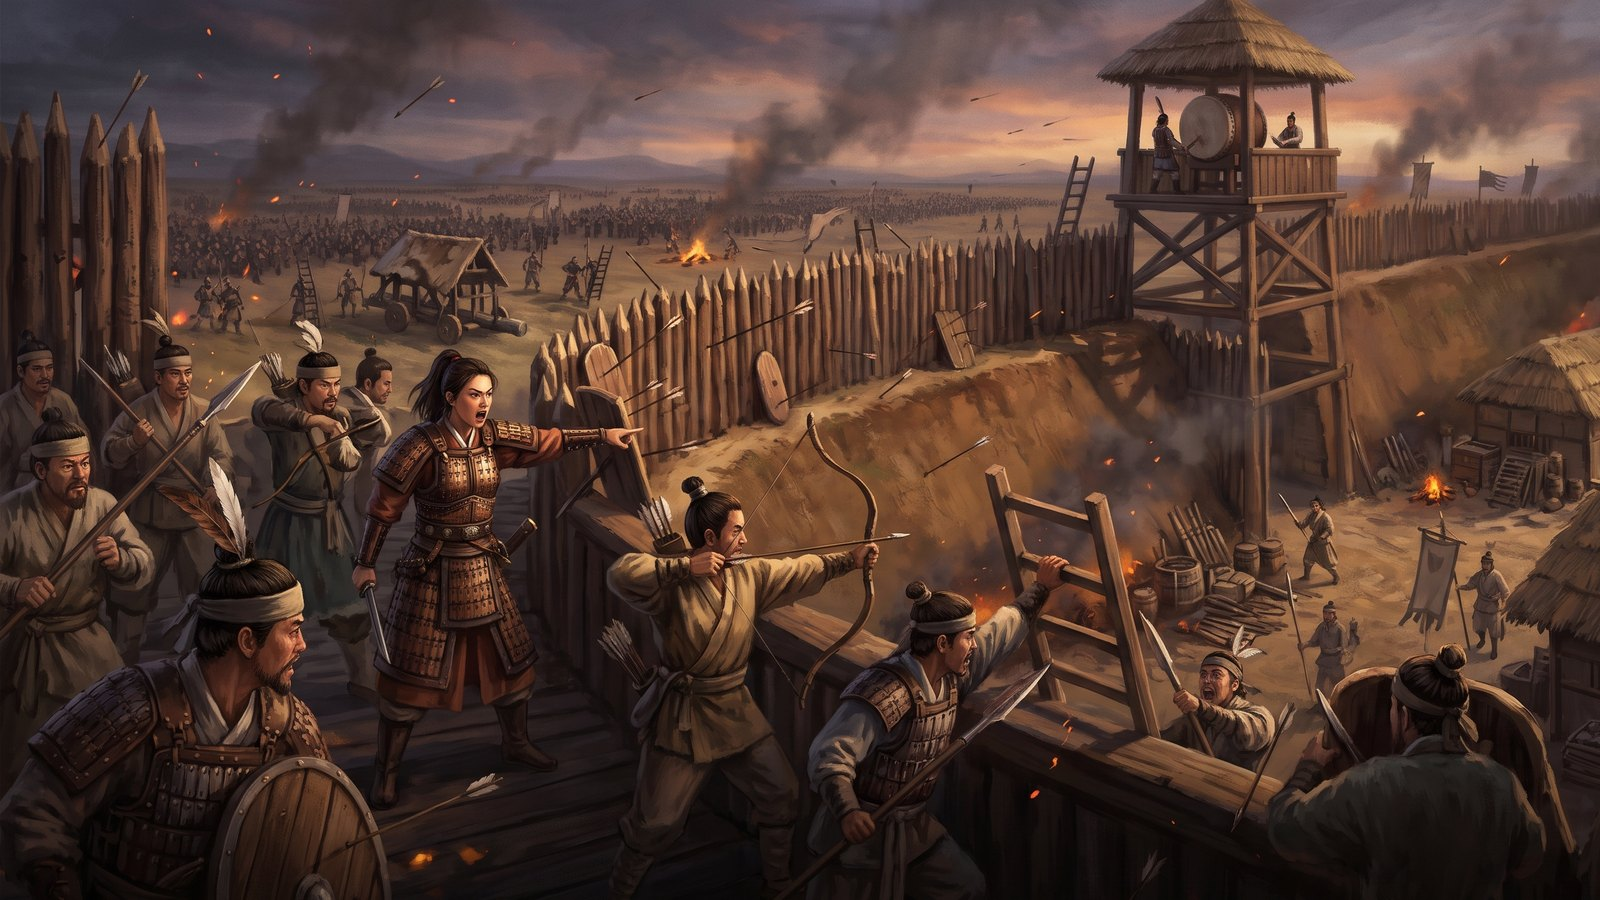
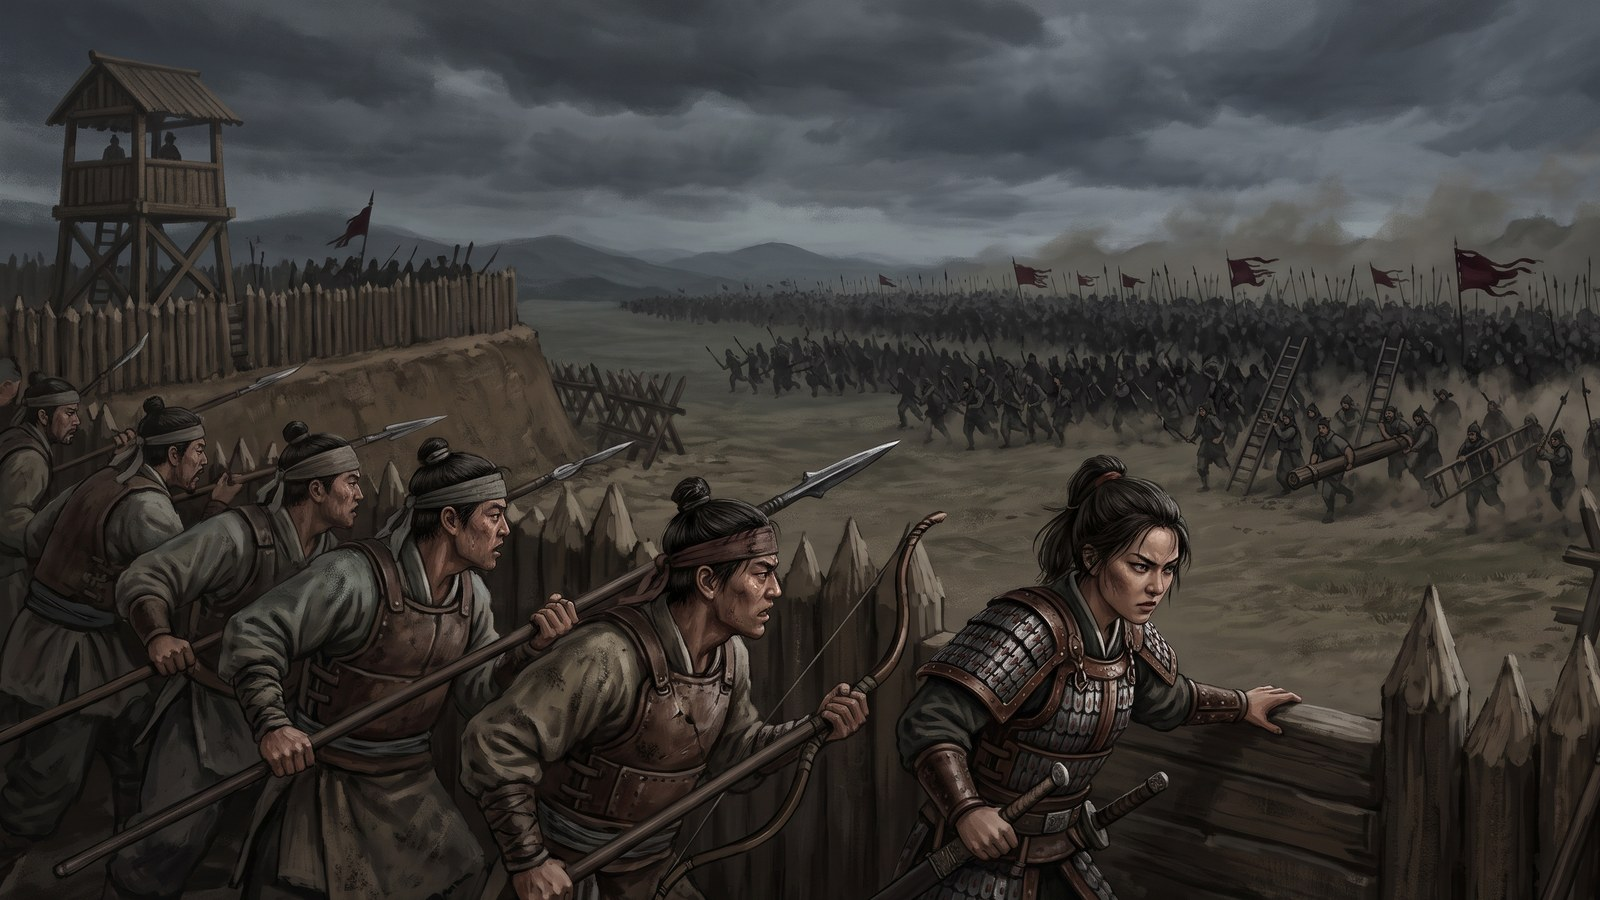
공작이 먹히면 큰 화면 · 퇴각은 묻고 바로 · 모르는 나라는 청을 못 건다 · 침공 그림 새로
- 우리 공작이 먹히면 갈래마다 제 그림·말·소리로 큰 화면 (번쩍 → 그림 → 제목이 내려꽂힘 → 확인) — 소문·이간·매수·방화·첩자·암살 그림 여섯 · 제미나이 (형 10-25)
- 퇴각을 누르면 「정말 퇴각하시겠습니까?」 → 퇴각한다를 누르면 전투 개시 없이 그 자리에서 퇴각 (형 10-25)
- 우리가 모르는 나라가 화친을 청해 오던 것 — 서로 아는 사이만 청을 건다 (형 10-25 비화가야 · 감문국)
- 적의 공성 → 적의 침공 · 그림은 우리 목책 위에서 몰려오는 적 대군을 바라보는 수성 쪽 시점으로 (형 10-25)

Claude-Session: https://claude.ai/code/session_01EHNWQSnpqx2ZUW8bnuUbTB

diff --git a/src/ui/realm/app.ts b/src/ui/realm/app.ts
@@ -3443,7 +3443,10 @@ export function mountRealmApp(root: HTMLElement, host: AppHost): { show(r: Realm
     }
     // 고을을 쥐었거나 잃었다 — 어디인지 큰 그림과 함께 하나씩, 확인만 누르고 넘어간다 (형 10-25)
     const lands = (r.region ?? 'byeonhan-mini') === 'tutorial' ? [] : landChanges(before, r).filter((x) => !landSeen.has(x.key))
-    if (lands.length > 0) return landCardHtml(r, lands[0]!, lands.length - 1)
+    // 우리 공작이 먹혔다 — 갈래마다 제 그림으로 크게 (형 10-25: "공작이 성공한 것도 각각 이미지 · 전체화면 연출 · 확인 버튼")
+    const wins = (r.region ?? 'byeonhan-mini') === 'tutorial' ? [] : plotWins(r, report).filter((x) => !landSeen.has(x.key))
+    const bigs = [...lands.map((x) => landBig(r, x)), ...wins]
+    if (bigs.length > 0) return bigCardHtml(r, bigs[0]!, bigs.length - 1)
     let h = `<div class="mcard" data-act="rep-fast"><div class="mt">${icon(SEASON_ICON[season], 'sic')}<b>${esc(seasonLabel(r.season))}</b><span>${esc(SEASON_LINE[season])}</span></div>`
     if (decide !== '') h += `<div class="rdecide"><h4 class="rdh">이번 계절 정할 것 · 다 골랐다</h4>${decide}</div>`
     for (const l of onUs) {
@@ -3607,18 +3610,56 @@ export function mountRealmApp(root: HTMLElement, host: AppHost): { show(r: Realm
     return out
   }
 
-  /** 땅의 바뀜 한 장 — 큰 그림 · 어디 · 누구에게서/누구에게 · 확인 하나 */
-  function landCardHtml(r: Realm, x: { key: string; node: string; won: boolean; other: string | null }, rest: number): string {
+  /** 큰 화면 한 장 — 그림 · 깃발 · 제목 · 한두 줄 · 확인 하나 (땅의 바뀜 · 공작이 먹혔다) */
+  interface Big { key: string; art: string; good: boolean; flags: string; title: string; sub: string; small: string; sfx: string }
+
+  /** 땅의 바뀜 — 어디 · 누구에게서/누구에게 */
+  function landBig(r: Realm, x: { key: string; node: string; won: boolean; other: string | null }): Big {
     const n = r.nodes[x.node]!
     const isCap = Object.values(r.factions).some((f) => f.capital === x.node) || n.kind === 'capital'
     const kind = isCap ? '도읍' : NODE_KIND_NAME[n.kind]
     const who = x.other !== null ? (r.factions[x.other]?.name ?? '') : ''
-    const title = x.won ? `${josa(n.name, '을', '를')} 차지했다` : `${josa(n.name, '을', '를')} 빼앗겼다`
-    const sub = x.won ? (who !== '' ? `${who}의 ${josa(kind, '이었다', '였다')}` : '') : (who !== '' ? `${josa(who, '이', '가')} 쥐었다` : '우리 손을 떠났다')
-    const art = x.won ? 'event-take-town' : 'event-invade-raid'
-    return `<div class="mcard fulld landc ${x.won ? 'won' : 'lost'}"><div class="mt">${icon(SEASON_ICON[seasonOf(r.season)], 'sic')}<b>${esc(seasonLabel(r.season))}</b></div>`
-      + `<div class="landv"><img class="landi" src="${ART}event/${art}.jpg" alt=""><div class="landt">${emblem(x.won ? me() : x.other, 'fem')}<b>${esc(title)}</b>${sub !== '' ? `<span>${esc(sub)}</span>` : ''}<small>${esc(kind)} · 백성 ${Math.floor(n.hh).toLocaleString('ko-KR')}가구</small></div></div>`
-      + `<button class="btn pri wide landok" data-act="land-ok" data-k="${x.key}">확인</button>${rest > 0 ? `<p class="fdnote">이어서 ${rest}곳 더</p>` : ''}</div>`
+    return {
+      key: x.key, good: x.won, art: x.won ? 'event-take-town' : 'event-invade-raid', flags: emblem(x.won ? me() : x.other, 'fem'),
+      title: x.won ? `${josa(n.name, '을', '를')} 차지했다` : `${josa(n.name, '을', '를')} 빼앗겼다`,
+      sub: x.won ? (who !== '' ? `${who}의 ${josa(kind, '이었다', '였다')}` : '') : (who !== '' ? `${josa(who, '이', '가')} 쥐었다` : '우리 손을 떠났다'),
+      small: `${kind} · 백성 ${Math.floor(n.hh).toLocaleString('ko-KR')}가구`,
+      sfx: x.won ? snd('horn_victory') : snd('defeat'),
+    }
+  }
+
+  /** 이번 계절 먹힌 우리 공작 — 갈래마다 제 그림 · 제 말 · 제 소리 */
+  function plotWins(r: Realm, rep: Report): Big[] {
+    const out: Big[] = []
+    for (const l of rep.lines) {
+      if (l.kind !== 'plot' || l.faction !== me() || !l.ok) continue
+      const key = `${r.season}:plot:${l.op}:${l.target}:${l.node ?? ''}:${l.other ?? ''}:${l.hero ?? ''}`
+      const fn = r.factions[l.target]?.name ?? ''
+      const nn = l.node !== undefined ? (r.nodes[l.node]?.name ?? '') : ''
+      const on = l.other !== undefined ? (r.factions[l.other]?.name ?? '') : ''
+      const hn = l.hero !== undefined ? (r.heroes[l.hero]?.name ?? '') : ''
+      const flag = emblem(l.target, 'fem')
+      const b = { key, art: `event-plot-${l.op}`, good: true, flags: flag }
+      switch (l.op) {
+        case 'rumor': out.push({ ...b, title: `${fn}에 흉흉한 소문이 돈다`, sub: '군사들이 수군대며 기운이 꺾였다', small: PLOT_NAME.rumor, sfx: snd('war_drum') }); break
+        case 'sow': out.push({ ...b, flags: `<span class="sowf big">${emblem(l.target, 'fem')}<i>⇄</i>${emblem(l.other ?? null, 'fem')}</span>`, title: `${josa(fn, '과', '와')} ${josa(on, '이', '가')} 등을 돌렸다`, sub: '두 나라 사이가 틀어졌다 — 싸움이 붙을 수도 있다', small: PLOT_NAME.sow, sfx: snd('tap_brush') }); break
+        case 'bribe': out.push({ ...b, title: `${nn} 장정들을 매수했다`, sub: '두 계절 동안 싸우러 나오지 않는다', small: `${PLOT_NAME.bribe} · ${fn}`, sfx: snd('tap_coin') }); break
+        case 'burn': out.push({ ...b, title: `${fn}의 창고가 불탄다`, sub: '쌓아 둔 곡식이 잿더미가 됐다', small: PLOT_NAME.burn, sfx: 'realm/sfx/cmd_fire_c1.ogg' }); break
+        case 'spy': out.push({ ...b, title: `${nn}에 첩자를 심었다`, sub: '네 계절 동안 그곳 군세가 훤히 보인다', small: `${PLOT_NAME.spy} · ${fn}`, sfx: snd('tap_move') }); break
+        case 'assassin': out.push({ ...b, title: l.result === 'kill' ? `${josa(hn, '이', '가')} 쓰러졌다` : `${josa(hn, '이', '가')} 화살을 맞았다`, sub: l.result === 'kill' ? `${fn}의 장수 하나가 사라졌다` : '몇 계절 동안 군대를 이끌지 못한다', small: `${PLOT_NAME.assassin} · ${fn}`, sfx: 'realm/sfx/battle_final_c1.ogg' }); break
+      }
+    }
+    return out
+  }
+
+  /** 소리는 그 장이 처음 뜰 때 한 번 */
+  const bigSounded = new Set<string>()
+  /** 큰 화면 — 번쩍 → 그림이 밀려 들어오고 → 제목이 내려꽂힌다 → 소리 (형 10-25: "유저가 퍽 하면 게임은 으아아아 — 오버액션을 연쇄로") */
+  function bigCardHtml(r: Realm, x: Big, rest: number): string {
+    if (!bigSounded.has(x.key)) { bigSounded.add(x.key); window.setTimeout(() => ding(x.sfx, 0.55), 220) }
+    return `<div class="mcard fulld landc ${x.good ? 'won' : 'lost'}"><i class="bigflash"></i><div class="mt">${icon(SEASON_ICON[seasonOf(r.season)], 'sic')}<b>${esc(seasonLabel(r.season))}</b></div>`
+      + `<div class="landv"><img class="landi" src="${ART}event/${x.art}.jpg" alt=""><div class="landt">${x.flags}<b>${esc(x.title)}</b>${x.sub !== '' ? `<span>${esc(x.sub)}</span>` : ''}<small>${esc(x.small)}</small></div></div>`
+      + `<button class="btn pri wide landok" data-act="land-ok" data-k="${x.key}">확인</button>${rest > 0 ? `<p class="fdnote">이어서 ${rest}가지 더</p>` : ''}</div>`
   }
 
   function fallen(b: Realm, after: Realm): string[] {
@@ -3935,7 +3976,7 @@ export function mountRealmApp(root: HTMLElement, host: AppHost): { show(r: Realm
     const S = {
       ambush: { bg: 'event-night-raid', title: '적의 기습', line: `${josa(who, '이', '가')} 어둠을 타고 ${josa(where, '으로', '로')} 숨어 들었다`, sub: '미처 채비를 못 했다', btn: '맞서 싸운다' },
       field: { bg: 'event-invade-field', title: '길에서 맞닥뜨렸다', line: `${where} 가는 길에서 ${who} 군대와 마주쳤다`, sub: '들판에서 맞붙는다', btn: '맞붙는다' },
-      siege: { bg: 'event-invade-siege', title: '적의 공성', line: `${josa(who, '이', '가')} ${josa(where, '을', '를')} 에워쌌다`, sub: '성벽 위에서 막는다', btn: '성을 지킨다' },
+      siege: { bg: 'event-invade-siege', title: '적의 침공', line: `${josa(who, '이', '가')} ${josa(where, '을', '를')} 치러 몰려온다`, sub: '성벽 위에서 막는다', btn: '성을 지킨다' },
       raid: { bg: 'event-invade-raid', title: '적의 침략', line: `${josa(who, '이', '가')} ${josa(where, '으로', '로')} 쳐들어왔다`, sub: '마을을 지킨다', btn: '맞서 싸운다' },
     }[kind]
     const caught = l.ambush === 'caught' ? '숨어 오던 것을 먼저 알아챘다 · ' : ''

diff --git a/src/ui/realm/battlefield.ts b/src/ui/realm/battlefield.ts
@@ -1817,6 +1817,13 @@ export const WAR_CSS = `
 .ap .wtip .wtl { display: flex; flex-wrap: wrap; gap: 4px; margin-top: 3px; } .ap .wtip .wtl span { display: inline-flex; align-items: center; gap: 3px; padding: 1px 7px 1px 2px; border-radius: 8px; background: #2d1f1d; font-size: 12px; }
 .ap .wtip .wtl img { width: 20px; height: 20px; object-fit: contain; } .ap .wtip .wtl i { font-style: normal; color: #ffb8a0; }
 /* 무리 곁의 깃발 판 (openPop) */
+.ap .wsure { position: fixed; inset: 0; z-index: 96; display: grid; place-items: center; padding: 16px; background: #000a; }
+.ap .wsure[hidden] { display: none; }
+.ap .wsurec { width: min(420px, 100%); padding: 20px 18px 16px; border-radius: 16px; background: #1c100c; border: 1.5px solid #e04a3a; box-shadow: 0 0 24px #e04a3a66, 0 14px 40px #000d; text-align: center; animation: wfpin .16s ease-out; }
+.ap .wsurec b { display: block; font-size: 20px; color: #ffb4a4; }
+.ap .wsurec p { margin: 10px 0 16px; font-size: 14px; color: #e6d8c6; }
+.ap .wsureb { display: grid; grid-template-columns: 1fr 1fr; gap: 10px; }
+.ap .wsureb .wsurey { background: linear-gradient(#a8291c, #6e150c); border-color: #e04a3a; color: #fff; }
 .ap .wfpop { position: fixed; z-index: 94; width: min(330px, calc(100vw - 16px)); padding: 8px; border-radius: 14px; background: #17110cf6; border: 1.5px solid #ffd27a; box-shadow: 0 0 0 1px #000, 0 12px 34px #000d, 0 0 18px #ffd27a44; animation: wfpin .16s ease-out; }
 @keyframes wfpin { from { opacity: 0; transform: translateY(-6px) scale(.97); } to { opacity: 1; transform: none; } }
 .ap .wfpop[hidden] { display: none; }
@@ -2552,6 +2559,32 @@ export function openWar(root: HTMLElement, prev: Realm, orders: readonly Order[]
     pop.style.left = `${Math.round(left)}px`
     pop.style.top = `${Math.round(top)}px`
   }
+  /** 이 합을 고른 대로 싸운다 */
+  const fight = (key: string): void => {
+    active = undefined
+    if (cur === null || cur.key !== key) cur = { key, cmds: [] }
+    cutLead = sel.lead ?? null // 고른 장수 기술 — 이 합이 풀릴 때 초상이 튀어나온다
+    cur.cmds.push({ ...sel })
+    sel = {}
+    t = rehearse(prev, orders, done, cur, host.me)
+    if (t.line === null || t.line.key !== cur.key) {
+      // 그 합으로 판이 끝났다 — 굳히고 결과를 보인다
+      settle()
+      return
+    }
+    if (t.line.pending === undefined) {
+      done[cur.key] = { cmds: [...cur.cmds] }
+      cur = null
+    }
+    draw(true)
+  }
+  /** 정말 물러나나 — 묻는 판 (예면 그 자리에서 퇴각) */
+  const sure = document.createElement('div')
+  sure.className = 'wsure'
+  sure.hidden = true
+  sure.innerHTML = `<div class="wsurec"><b>정말 퇴각하시겠습니까?</b><p>${esc(CMD_DOES.retreat)}</p><div class="wsureb"><button class="btn ghost" data-war="retreat-no">계속 싸운다</button><button class="btn pri wsurey" data-war="retreat-yes">퇴각한다</button></div></div>`
+  ov.appendChild(sure)
+  const askRetreat = (): void => { sure.hidden = false }
   let press: { x: number; y: number; timer: number; held: boolean } | null = null
   /** 꾹 눌러 정보창을 띄웠다 — 이어지는 click 하나를 삼킨다 (무리를 고르지 않는다) */
   let swallow = false
@@ -2650,6 +2683,8 @@ export function openWar(root: HTMLElement, prev: Realm, orders: readonly Order[]
         // 무리마다 깃발 하나 — 같은 것을 또 누르면 내린다(맡긴다). 다시 그리되 자리는 그대로
         const g = b.dataset['g'] as Grp | 'lead'
         const c = b.dataset['c'] as Cmd
+        // 퇴각은 묻고 바로 — 다른 무리를 고르고 「전투 개시」까지 누를 까닭이 없다 (형 10-25: "정말 퇴각하시겠습니까? 가 뜨고 그냥 퇴각되어야")
+        if (c === 'retreat') { closePop(); hideTip(); askRetreat(); return }
         sel = { ...sel, [g]: sel[g] === c ? undefined : c }
         if (sel[g] === undefined) delete sel[g]
         // 다시 그리지 않고 고른 표만 옮긴다 — 다시 그리면 배경·그림이 깜빡였다
@@ -2692,24 +2727,16 @@ export function openWar(root: HTMLElement, prev: Realm, orders: readonly Order[]
       }
       case 'go': {
         if ((b as HTMLButtonElement).disabled) return
-        active = undefined
-        if (cur === null || cur.key !== l.key) cur = { key: l.key, cmds: [] }
-        cutLead = sel.lead ?? null // 고른 장수 기술 — 이 합이 풀릴 때 초상이 튀어나온다
-        cur.cmds.push({ ...sel })
-        sel = {}
-        t = rehearse(prev, orders, done, cur, host.me)
-        if (t.line === null || t.line.key !== cur.key) {
-          // 그 합으로 판이 끝났다 — 굳히고 결과를 보인다
-          settle()
-          return
-        }
-        if (t.line.pending === undefined) {
-          done[cur.key] = { cmds: [...cur.cmds] }
-          cur = null
-        }
-        draw(true)
+        fight(l.key)
         return
       }
+      case 'retreat-yes': {
+        sure.hidden = true
+        sel = { lead: 'retreat' }
+        fight(l.key)
+        return
+      }
+      case 'retreat-no': sure.hidden = true; return
       case 'auto': autoPlay(); return
       case 'next': {
         if (cur !== null) done[cur.key] = { cmds: [...cur.cmds] }

diff --git a/src/ui/realm/appstyle.ts b/src/ui/realm/appstyle.ts
@@ -593,7 +593,17 @@ html, body { margin: 0; height: 100%; overflow: hidden; background: #17110c; ove
 .ap .landc .landv { position: relative; align-self: center; width: min(100%, calc(62vh * 16 / 9)); border-radius: 16px; overflow: hidden; box-shadow: 0 14px 40px #000c; animation: landin .6s cubic-bezier(.2, 1.1, .4, 1) both; }
 .ap .landc .landi { display: block; width: 100%; aspect-ratio: 16 / 9; object-fit: cover; }
 .ap .landc .landt { position: absolute; left: 0; right: 0; bottom: 0; display: flex; flex-direction: column; align-items: center; gap: 4px; padding: 40px 16px 16px; background: linear-gradient(#0000, #000c 45%); text-align: center; }
-.ap .landc .landt b { font-size: clamp(22px, 4.2vw, 34px); letter-spacing: .04em; text-shadow: 0 2px 8px #000; }
+.ap .landc .landt b { font-size: clamp(22px, 4.2vw, 34px); letter-spacing: .04em; text-shadow: 0 2px 8px #000; animation: bigslam .55s cubic-bezier(.3, 1.6, .5, 1) .35s both; }
+.ap .landc .landt span, .ap .landc .landt small { animation: bigup .4s ease-out .8s both; }
+.ap .landc .landi { animation: bigzoom 1.6s ease-out both; }
+.ap .landc .bigflash { position: absolute; inset: 0; z-index: 3; pointer-events: none; background: radial-gradient(circle, #fff 0, #fff8 40%, #0000 75%); animation: bigflash .5s ease-out both; }
+.ap .landc.lost .bigflash { background: radial-gradient(circle, #ff6a4a 0, #c0392b88 40%, #0000 75%); }
+.ap .landc { position: relative; } .ap .landc .landt .sowf.big .fem { width: 40px; height: 40px; } .ap .landc .landt .sowf.big i { font-size: 22px; }
+@keyframes bigflash { from { opacity: 1; } to { opacity: 0; } }
+@keyframes bigslam { 0% { transform: scale(2.2) translateY(-20px); opacity: 0; } 60% { transform: scale(.94); opacity: 1; } 100% { transform: scale(1); } }
+@keyframes bigup { from { transform: translateY(12px); opacity: 0; } to { transform: none; opacity: 1; } }
+@keyframes bigzoom { from { transform: scale(1.18); } to { transform: scale(1); } }
+@media (prefers-reduced-motion: reduce) { .ap .landc .landt b, .ap .landc .landi, .ap .landc .bigflash, .ap .landc .landt span, .ap .landc .landt small { animation: none; } }
 .ap .landc.won .landt b { color: #ffd77a; } .ap .landc.lost .landt b { color: #ff8a70; }
 .ap .landc .landt span { font-size: 16px; color: #efe6d2; } .ap .landc .landt small { font-size: 13px; color: #cfc6b4; }
 .ap .landc .landt .fem { width: 40px; height: 40px; }

diff --git a/tests/realm/stance.test.ts b/tests/realm/stance.test.ts
@@ -74,6 +74,18 @@ describe('속셈', () => {
     assert.fail('400 시드 안에 화친 청이 한 번도 없었다')
   })
 
+  it('우리가 모르는 나라는 청을 걸지 않는다 — 저쪽만 우리를 알아도 (형 10-25: "알지도 못하는 나라에서 어떻게 화친이 와")', () => {
+    for (let seed = 1; seed < 400; seed++) {
+      const r = fresh(seed)
+      const fs = ['us', 'guya', 'anya', 'miri', 'goja', 'dokro']
+      for (const x of fs) for (const y of fs) if (x < y) r.relations[pairKey(x, y)] = { state: 'war', until: null }
+      r.known = Object.fromEntries(fs.map((x) => [x, fs.filter((y) => y !== x && !(x === 'us' && y !== 'guya'))]))
+      const lines: ReportLine[] = []
+      makeAsks(r, lines)
+      for (const a of r.asks ?? []) assert.equal(a.from, 'guya', `모르는 ${a.from} 가 청을 걸었다`)
+    }
+  })
+
   it('도읍 둘을 쥔 나라는 앞서가는 나라 — 그와 맺은 약조를 깰 까닭이 생긴다', () => {
     const r = fresh()
     r.nodes['goja-cap']!.owner = 'guya'

diff --git a/src/realm/diplomacy.ts b/src/realm/diplomacy.ts
@@ -822,7 +822,7 @@ export function makeAsks(r: Realm, lines: ReportLine[]): void {
   let made = 0
   for (const f of Object.keys(r.factions).sort()) {
     if (made >= R.askMaxPerSeason) break
-    if (f === me || r.factions[f]!.mind === 'player' || !alive(f) || !knows(r, f, me)) continue // 모르는 나라에는 청을 못 건다 (발견)
+    if (f === me || r.factions[f]!.mind === 'player' || !alive(f) || !knows(r, f, me) || !knows(r, me, f)) continue // 서로 아는 사이만 청을 건다 — 우리가 모르는 나라가 화친을 청해 왔다 (형 10-25 비화가야 · 감문국)
     if (roll(r.seed, r.season, `ask:${f}`) >= R.aiAskChance) continue
     const ask = pickAsk(r, f, me)
     if (ask === null) continue
